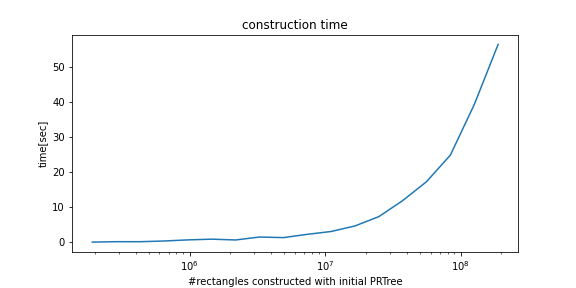
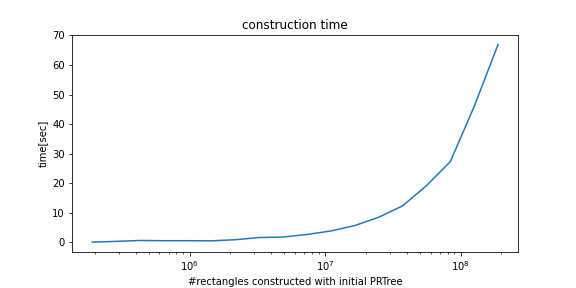
remove mimalloc

diff --git a/README.md b/README.md
@@ -80,7 +80,7 @@ python setup.py install
 # NOTE
 
 - This PRTree is implemented by C++ with Pybind11, and much faster than numba implementation of PRTree.
-- mimalloc allows us to get better performance (1.5x ~ 2.0x).
+- mimalloc could allow us to get better performance (1.5x ~ 2.0x).
 - If you can use C++, you should use boost::geometry (I didn't know it and sadly made this package).
 - Please note that insert / erase operations are not optimized compared to ordinary r-tree. Plus, this implementation does not exactly follow that of the paper due to my technical skills.
 
